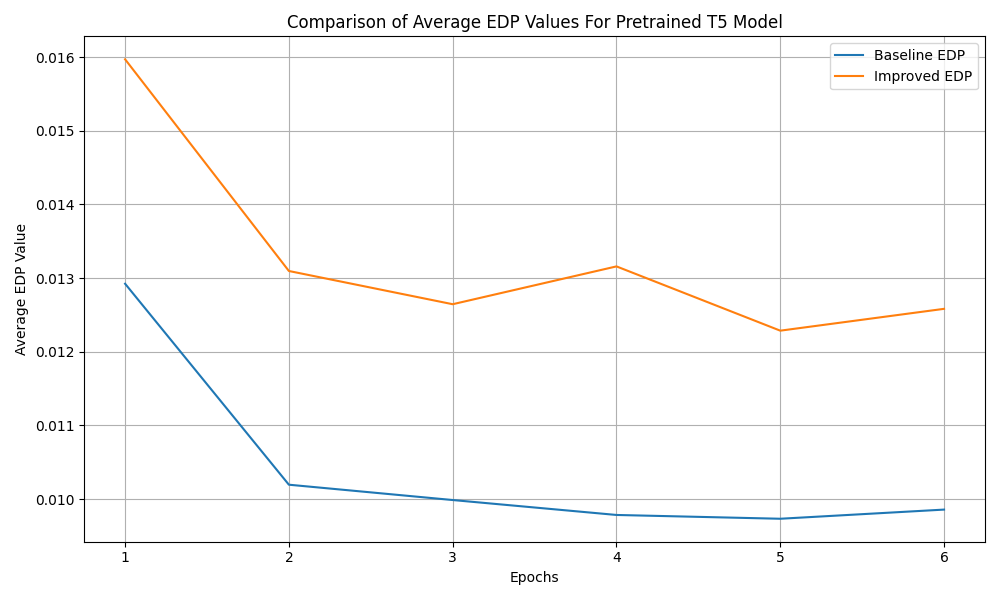
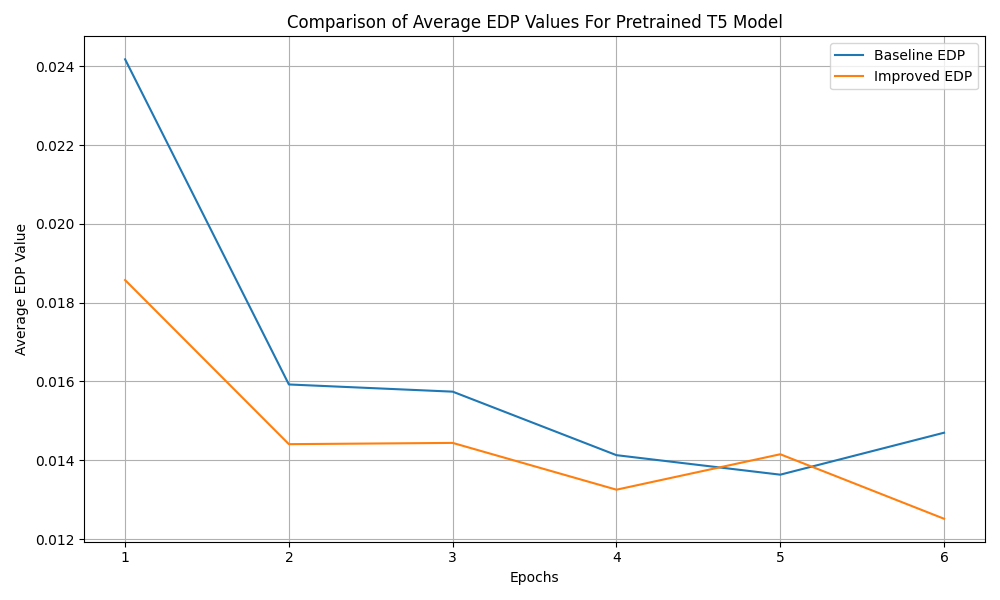
Added BERT model

diff --git a/bert_model/bert_baseline.py b/bert_model/bert_baseline.py
@@ -1,0 +1,58 @@
+import tensorflow as tf
+import time
+import numpy as np
+from util import profile_model, get_model_and_tokenizer
+
+
+def profile_model_layers(model, encoded_inputs):
+    transformer_layers = model.bert.encoder.layer
+    layer_times = []
+
+    for encoded_input in encoded_inputs:
+        input_ids = encoded_input['input_ids']
+        attention_mask = encoded_input.get('attention_mask', tf.ones_like(input_ids))
+        attention_mask = tf.cast(attention_mask, dtype=tf.float32)  # Ensure attention_mask is float32
+
+        outputs = model.bert(input_ids, attention_mask=attention_mask)
+        hidden_states = outputs.last_hidden_state
+
+        input_layer_times = []
+        for layer in transformer_layers:
+            start_time = time.time()
+            # Call the layer with all required arguments
+            layer_output = layer(
+                hidden_states,
+                attention_mask=attention_mask,
+                head_mask=None,
+                encoder_hidden_states=None,
+                encoder_attention_mask=None,
+                past_key_value=None,
+                output_attentions=False
+            )
+            end_time = time.time()
+            input_layer_times.append(end_time - start_time)
+            hidden_states = layer_output[0]  # Update hidden states for next layer
+        layer_times.append(input_layer_times)
+
+    return layer_times
+
+
+def bert_baseline(test_dataset):
+    model, tokenizer = get_model_and_tokenizer()
+
+    # Encoding the inputs
+    encoded_inputs = [tokenizer(text, return_tensors='tf', padding=True, truncation=True) for text in test_dataset]
+
+    # Baseline duration
+    baseline_durations = profile_model(model, encoded_inputs)
+    average_baseline_duration = np.mean(baseline_durations)
+
+    # Profile each layer and get average layer durations
+    layer_durations = profile_model_layers(model, encoded_inputs)
+    average_layer_durations = np.mean(layer_durations, axis=0)
+
+    # Assuming 1 unit of power consumption
+    power_consumption = 1.0
+    average_edp_values = [duration * power_consumption for duration in average_layer_durations]
+
+    return average_baseline_duration, average_layer_durations, average_edp_values

diff --git a/bert_model/bert_improved_edp.py b/bert_model/bert_improved_edp.py
@@ -1,0 +1,55 @@
+import tensorflow as tf
+import time
+import numpy as np
+
+from util import get_model_and_tokenizer
+
+
+def profile_model_layers(model, encoded_inputs):
+    transformer_layers = model.bert.encoder.layer
+    layer_times = []
+
+    for encoded_input in encoded_inputs:
+        input_ids = encoded_input['input_ids']
+        attention_mask = encoded_input.get('attention_mask', tf.ones_like(input_ids))
+        attention_mask = tf.cast(attention_mask, dtype=tf.float32)  # Ensure attention_mask is float32
+
+        outputs = model.bert(input_ids, attention_mask=attention_mask)
+        hidden_states = outputs.last_hidden_state
+
+        input_layer_times = []
+        for layer in transformer_layers:
+            start_time = time.time()
+            # Call the layer with all required arguments
+            layer_output = layer(
+                hidden_states,
+                attention_mask=attention_mask,
+                head_mask=None,
+                encoder_hidden_states=None,
+                encoder_attention_mask=None,
+                past_key_value=None,
+                output_attentions=False
+            )
+            end_time = time.time()
+            input_layer_times.append(end_time - start_time)
+            hidden_states = layer_output[0]  # Update hidden states for next layer
+        layer_times.append(input_layer_times)
+
+    return layer_times
+
+
+def bert_improved_edp(test_dataset):
+    model, tokenizer = get_model_and_tokenizer()
+
+    # Encoding the inputs
+    encoded_inputs = [tokenizer(text, return_tensors='tf', padding=True, truncation=True) for text in test_dataset]
+
+    # Profile each layer and get average layer durations
+    layer_durations = profile_model_layers(model, encoded_inputs)
+    average_layer_durations = np.mean(layer_durations, axis=0)
+
+    # Assuming 1 unit of power consumption
+    power_consumption = 1.0
+    average_edp_values = [duration * power_consumption for duration in average_layer_durations]
+
+    return average_layer_durations, average_edp_values

diff --git a/bert_model/plot_bert_results.py b/bert_model/plot_bert_results.py
@@ -1,11 +1,11 @@
-from t5_baseline import t5_baseline
-from t5_improved_edp import t5_improved_edp
-from util import make_plot
-
 from datasets import load_dataset
 
+from bert_baseline import bert_baseline
+from bert_improved_edp import bert_improved_edp
+from util import make_plot
 
-def plot_t5_results():
+
+def plot_bert_results():
     # test_dataset = [
     #     "Hello, my name is ChatGPT. How can I assist you today?",
     #     "What is the capital of France?",
@@ -13,10 +13,11 @@ def plot_t5_results():
     #     "How do I bake a chocolate cake?",
     #     "What are the benefits of machine learning?"
     # ]
-    test_dataset = load_dataset("ag_news")
 
-    average_baseline_duration, average_layer_durations, average_edp_values = t5_baseline(test_dataset)
-    average_layer_durations_improved, average_edp_values_improved = t5_improved_edp(test_dataset)
+    test_dataset = load_dataset('ag_news')
+
+    average_baseline_duration, average_layer_durations, average_edp_values = bert_baseline(test_dataset)
+    average_layer_durations_improved, average_edp_values_improved = bert_improved_edp(test_dataset)
 
     epochs = range(1, len(average_layer_durations) + 1)
 
@@ -26,7 +27,7 @@ def plot_t5_results():
         'Baseline Layer Duration',
         average_layer_durations_improved,
         'Improved Layer Duration',
-        'Comparison of Average Layer Durations For Pretrained T5 Model',
+        'Comparison of Average Layer Durations For Pretrained BERT Model',
         'Epochs',
         'Average Layer Duration'
     )
@@ -37,11 +38,11 @@ def plot_t5_results():
         'Baseline EDP',
         average_edp_values_improved,
         'Improved EDP',
-        'Comparison of Average EDP Values For Pretrained T5 Model',
+        'Comparison of Average EDP Values For Pretrained BERT Model',
         'Epochs',
         'Average EDP Value'
     )
 
 
 if __name__ == "__main__":
-    plot_t5_results()
+    plot_bert_results()

diff --git a/bert_model/util.py b/bert_model/util.py
@@ -1,0 +1,45 @@
+from transformers import TFBertForSequenceClassification, BertTokenizer
+import time
+import matplotlib.pyplot as plt
+import os
+
+path = os.path.join(os.getcwd(), "bert_model")
+
+
+def make_plot(epochs, plot_1_values, label_1, plot_2_values, label_2, title, x_label, y_label):
+    plt.figure(figsize=(10, 6))
+
+    # Plotting average baseline duration
+    plt.plot(epochs, plot_1_values, label=label_1)
+
+    # Plotting improved average layer durations
+    plt.plot(epochs, plot_2_values, label=label_2)
+
+    # Adding labels and title
+    plt.xlabel(x_label)
+    plt.ylabel(y_label)
+    plt.title(title)
+    plt.legend()
+
+    plt.grid(True)
+    plt.tight_layout()
+
+    plt.savefig(os.path.join(path, f"{title}.png"))
+
+
+def profile_model(model, encoded_inputs):
+    durations = []
+    for encoded_input in encoded_inputs:
+        start_time = time.time()
+        # Forward pass through the model
+        model(encoded_input)
+        end_time = time.time()
+        # Calculate the duration
+        durations.append(end_time - start_time)
+    return durations
+
+
+def get_model_and_tokenizer():
+    tokenizer = BertTokenizer.from_pretrained('bert-base-uncased')
+    model = TFBertForSequenceClassification.from_pretrained('bert-base-uncased')
+    return model, tokenizer
